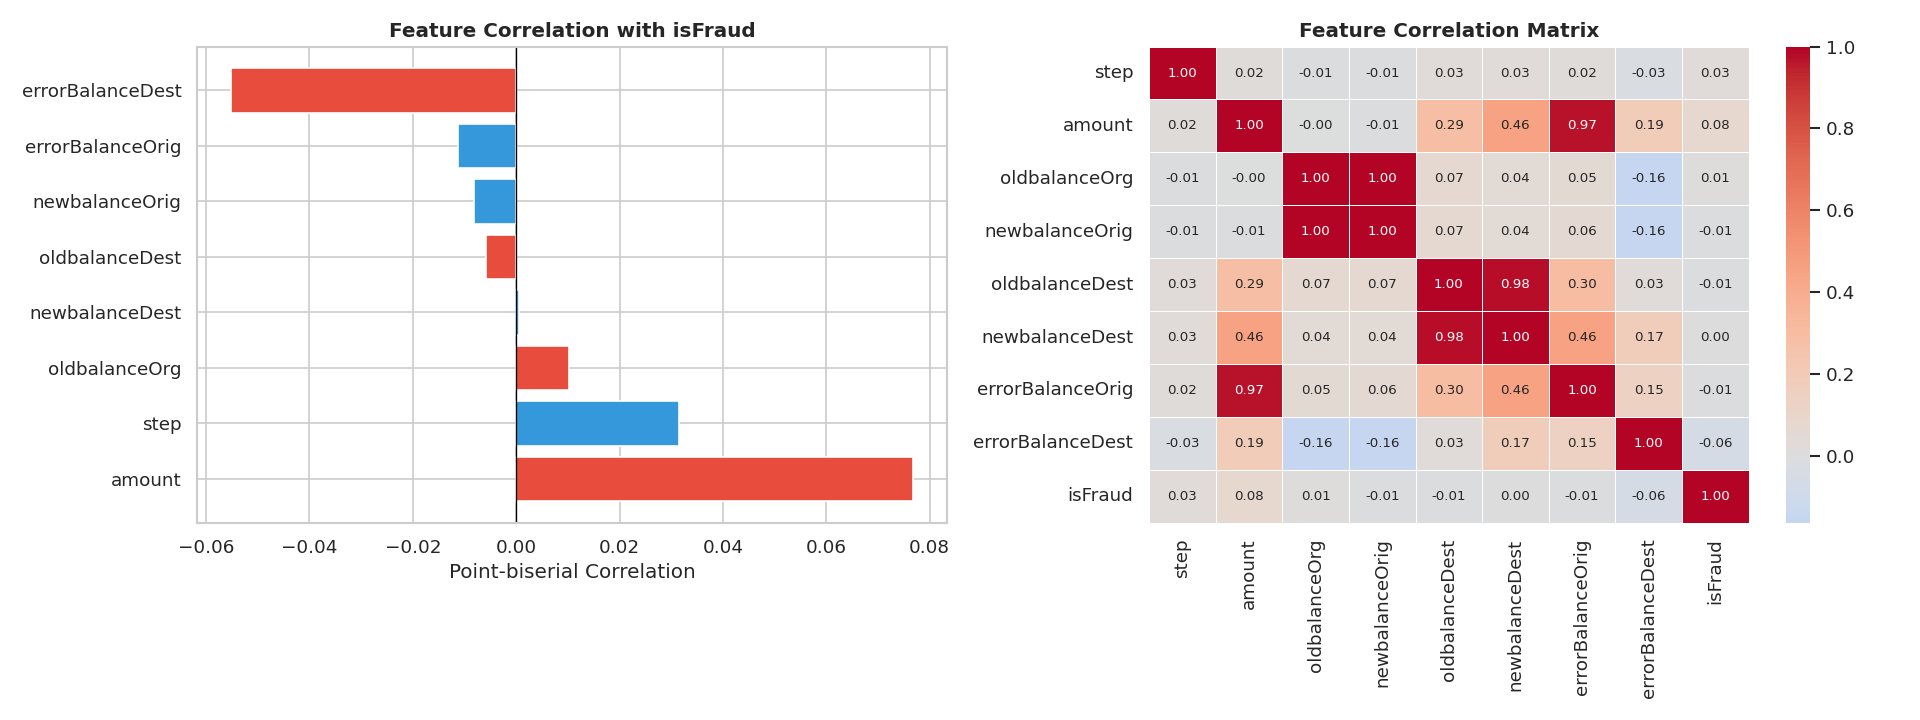
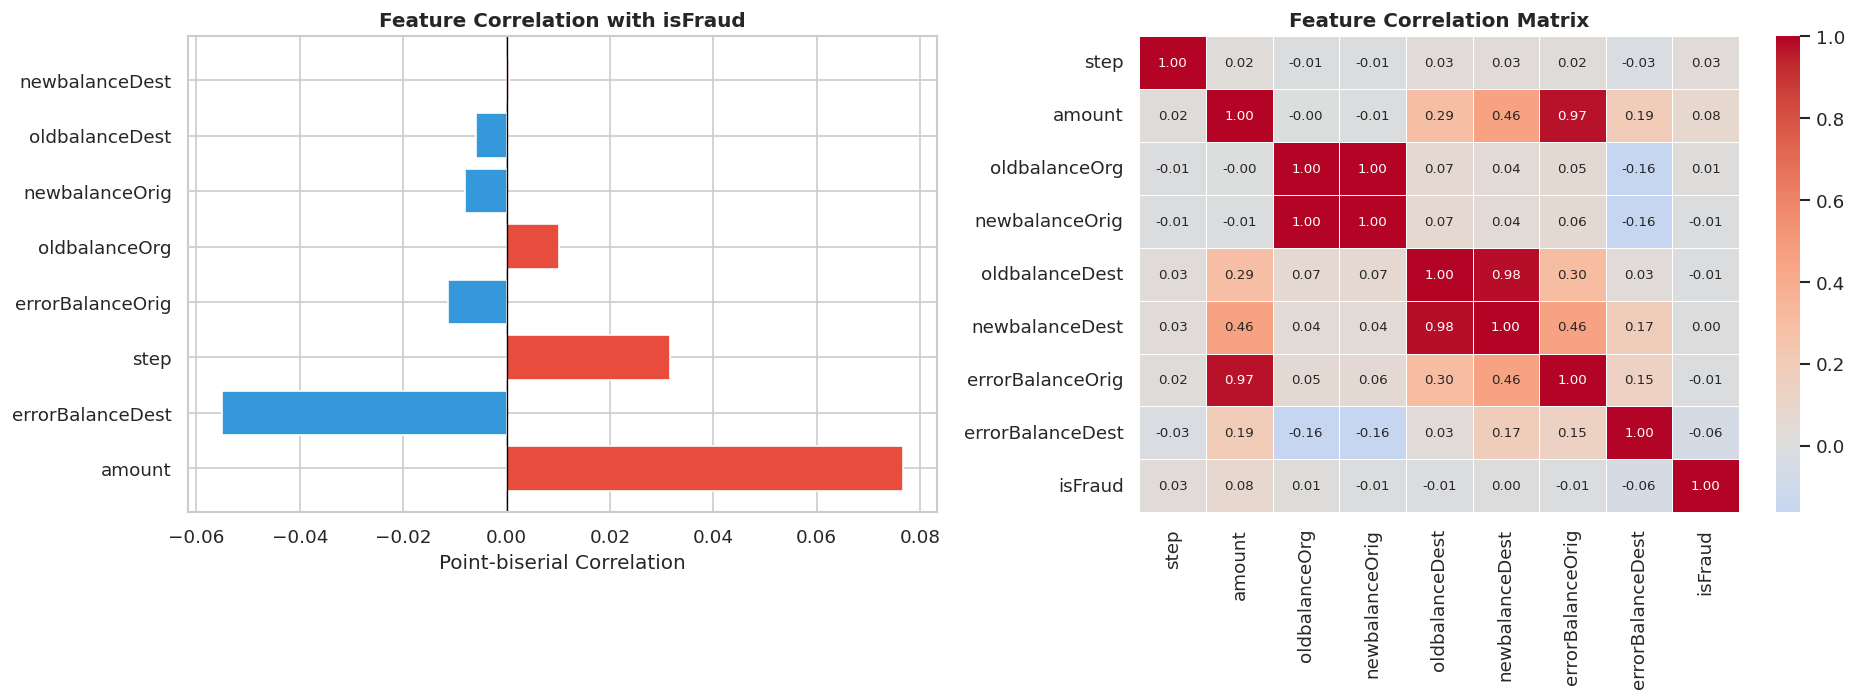
minor update

Changed region(s): [[0.4685, 0.0, 0.9995, 0.99], [0.0, 0.0, 0.4997, 0.81], [0.3748, 0.42, 0.4997, 0.45]]

diff --git a/data/raw/info.md b/data/raw/info.md
@@ -1,1 +1,1 @@
-The original file size is about 500 MB, so I can’t upload it here. You can find it on[Kaggle/PaySim](https://www.kaggle.com/datasets/ealaxi/paysim1)
+The original file size is about 500 MB, so I can’t upload it here. You can find it on: [Kaggle/PaySim](https://www.kaggle.com/datasets/ealaxi/paysim1)